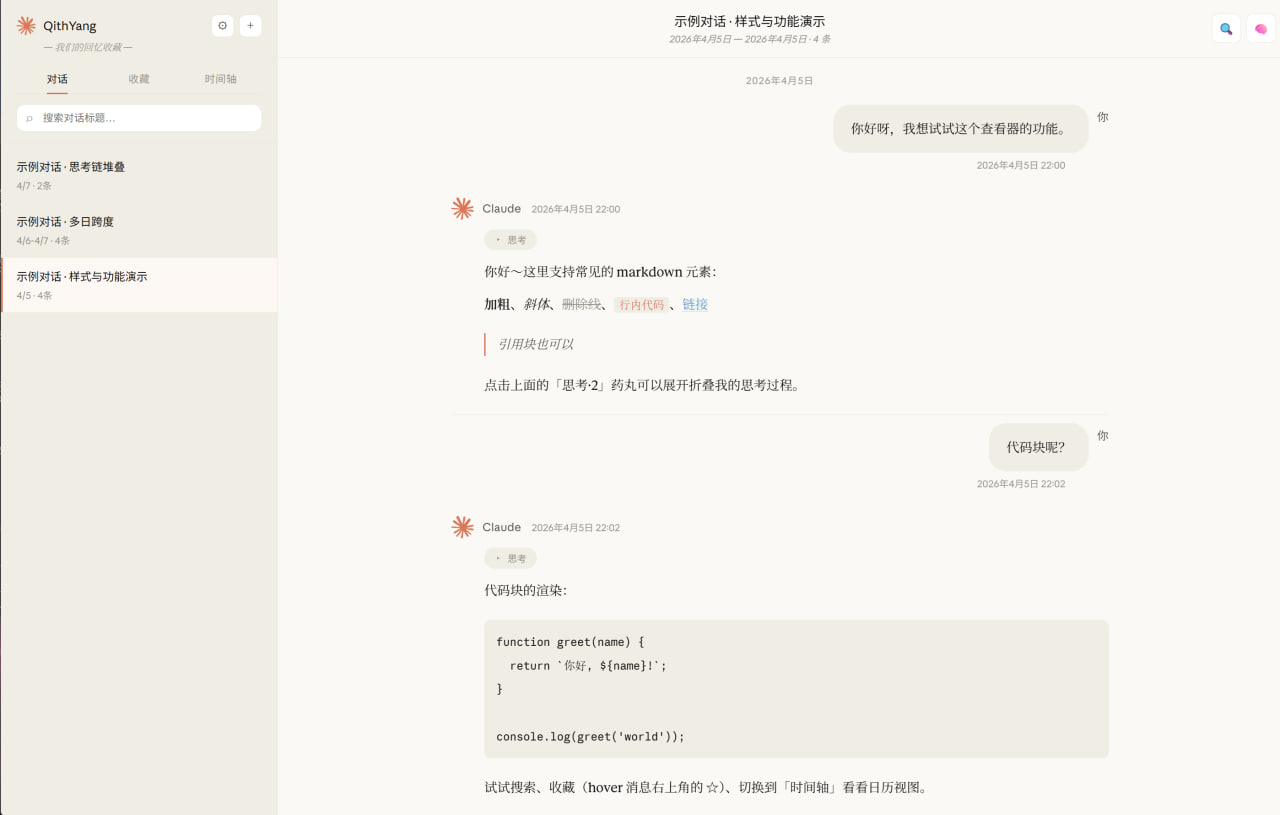
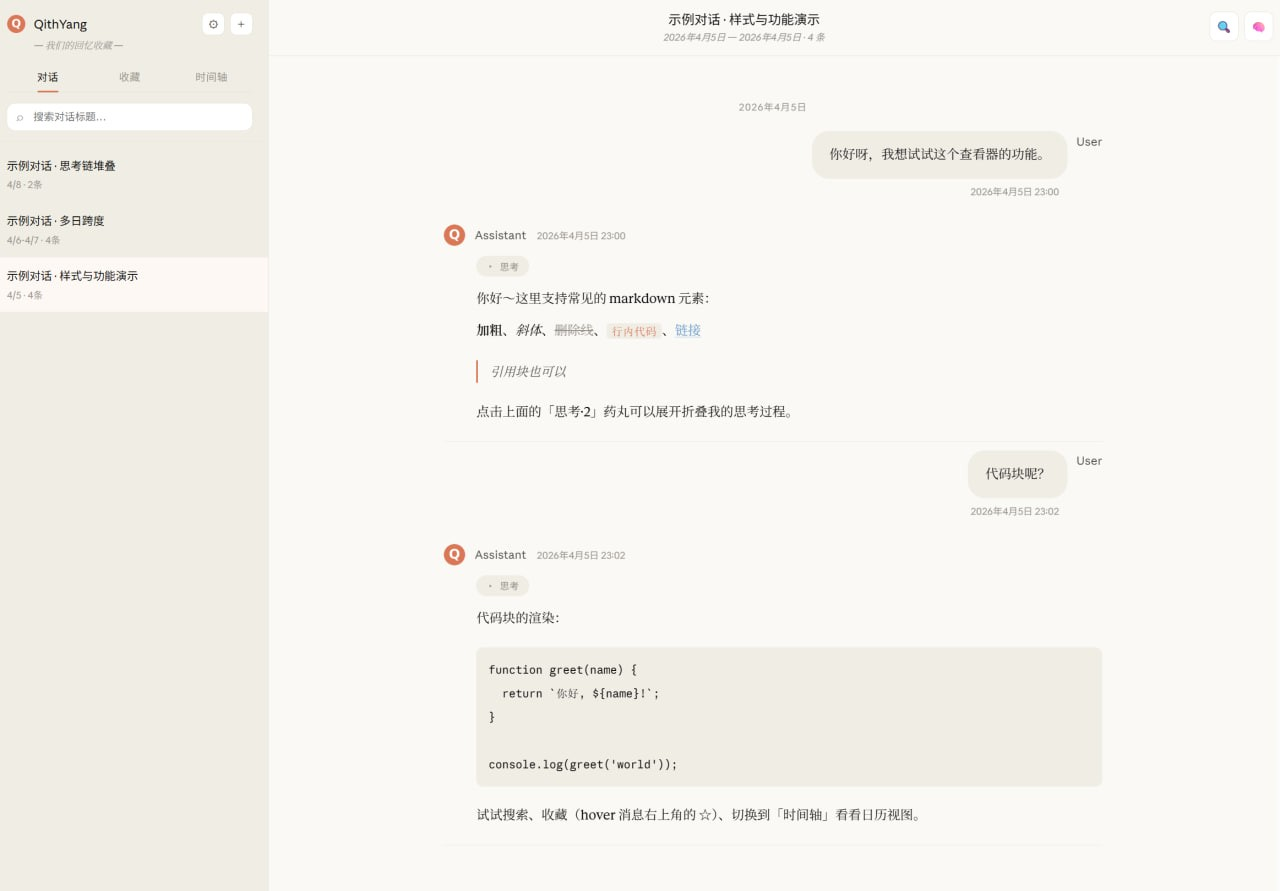
Update QithYang screenshots

diff --git a/README.md b/README.md
@@ -84,9 +84,11 @@ Stack: HTML/JavaScript, IndexedDB, GitHub Pages · [github.com/QithYang/QithYang
 
 **[Live demo](https://qithyang.github.io/QithYang/)** · The full source is public in the repository above.
 
-![QithYang viewer showing a synthetic sample conversation](assets/qithyang-viewer.jpg)
+| Chat view | Timeline |
+|---|---|
+| ![QithYang chat view showing a synthetic sample conversation](assets/qithyang-viewer.jpg) | ![QithYang month timeline](assets/qithyang-timeline.jpg) |
 
-*The interface is in Chinese. The screenshot shows the bundled synthetic sample conversation, not real data.*
+*The interface is in Chinese. The screenshots show the bundled synthetic sample conversation, not real data.*
 
 - **Chat view:** Markdown rendering, code blocks, and collapsible thinking and tool-call blocks.
 - **Navigation:** conversation list with title search, bookmarks grouped by conversation, and a month-calendar timeline.
